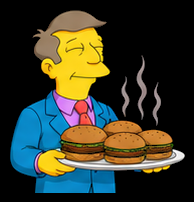
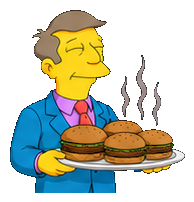
Convert Skinner PNGs to transparent + remove blend mode hacks
Flood-filled black background on all 30 images to alpha-transparent.
Images now render correctly on any light or dark background without
mix-blend-mode tricks.

diff --git a/src/render.ts b/src/render.ts
@@ -299,8 +299,6 @@ const SCORECARD_CSS = `
     --max-bg:#D1FAE5;--warn:#B45309;--warn-bg:#FFFBEB;--quip:#7C3AED;
     --quip-bg:#F5F3FF;--quip-bdr:#C4B5FD;color-scheme:light;
 }
-:root[data-theme="dark"] .skinner-img { mix-blend-mode: screen; filter: none; }
-:root[data-theme="light"] .skinner-img { mix-blend-mode: multiply; filter: contrast(1.1) brightness(0.92); }
 *, *::before, *::after { box-sizing: border-box; }
 body {
   font-family: var(--font-body);
@@ -330,8 +328,7 @@ body {
 .quip-label { font-family: var(--font-mono); font-size: 10px; font-weight: 600; letter-spacing: .08em; text-transform: uppercase; color: var(--quip); white-space: nowrap; }
 .quip-text { font-size: 19px; font-style: italic; color: var(--fg-muted); line-height: 1.55; }
 .skinner-wrap { flex-shrink: 0; line-height: 0; }
-.skinner-img { height: 280px; width: auto; display: block; mix-blend-mode: multiply; filter: contrast(1.1) brightness(0.92); }
-@media (prefers-color-scheme: dark) { .skinner-img { mix-blend-mode: screen; filter: none; } }
+.skinner-img { height: 280px; width: auto; display: block; }
 .stats { display: grid; grid-template-columns: repeat(auto-fit, minmax(100px, 1fr)); gap: 8px; margin-block-end: 20px; }
 .stat { background: var(--surface-2); border-radius: var(--r); padding: 12px 14px; text-align: center; }
 .stat .num { font-family: var(--font-head); font-size: 22px; font-weight: 800; color: var(--fg); font-variant-numeric: tabular-nums; line-height: 1.2; }
